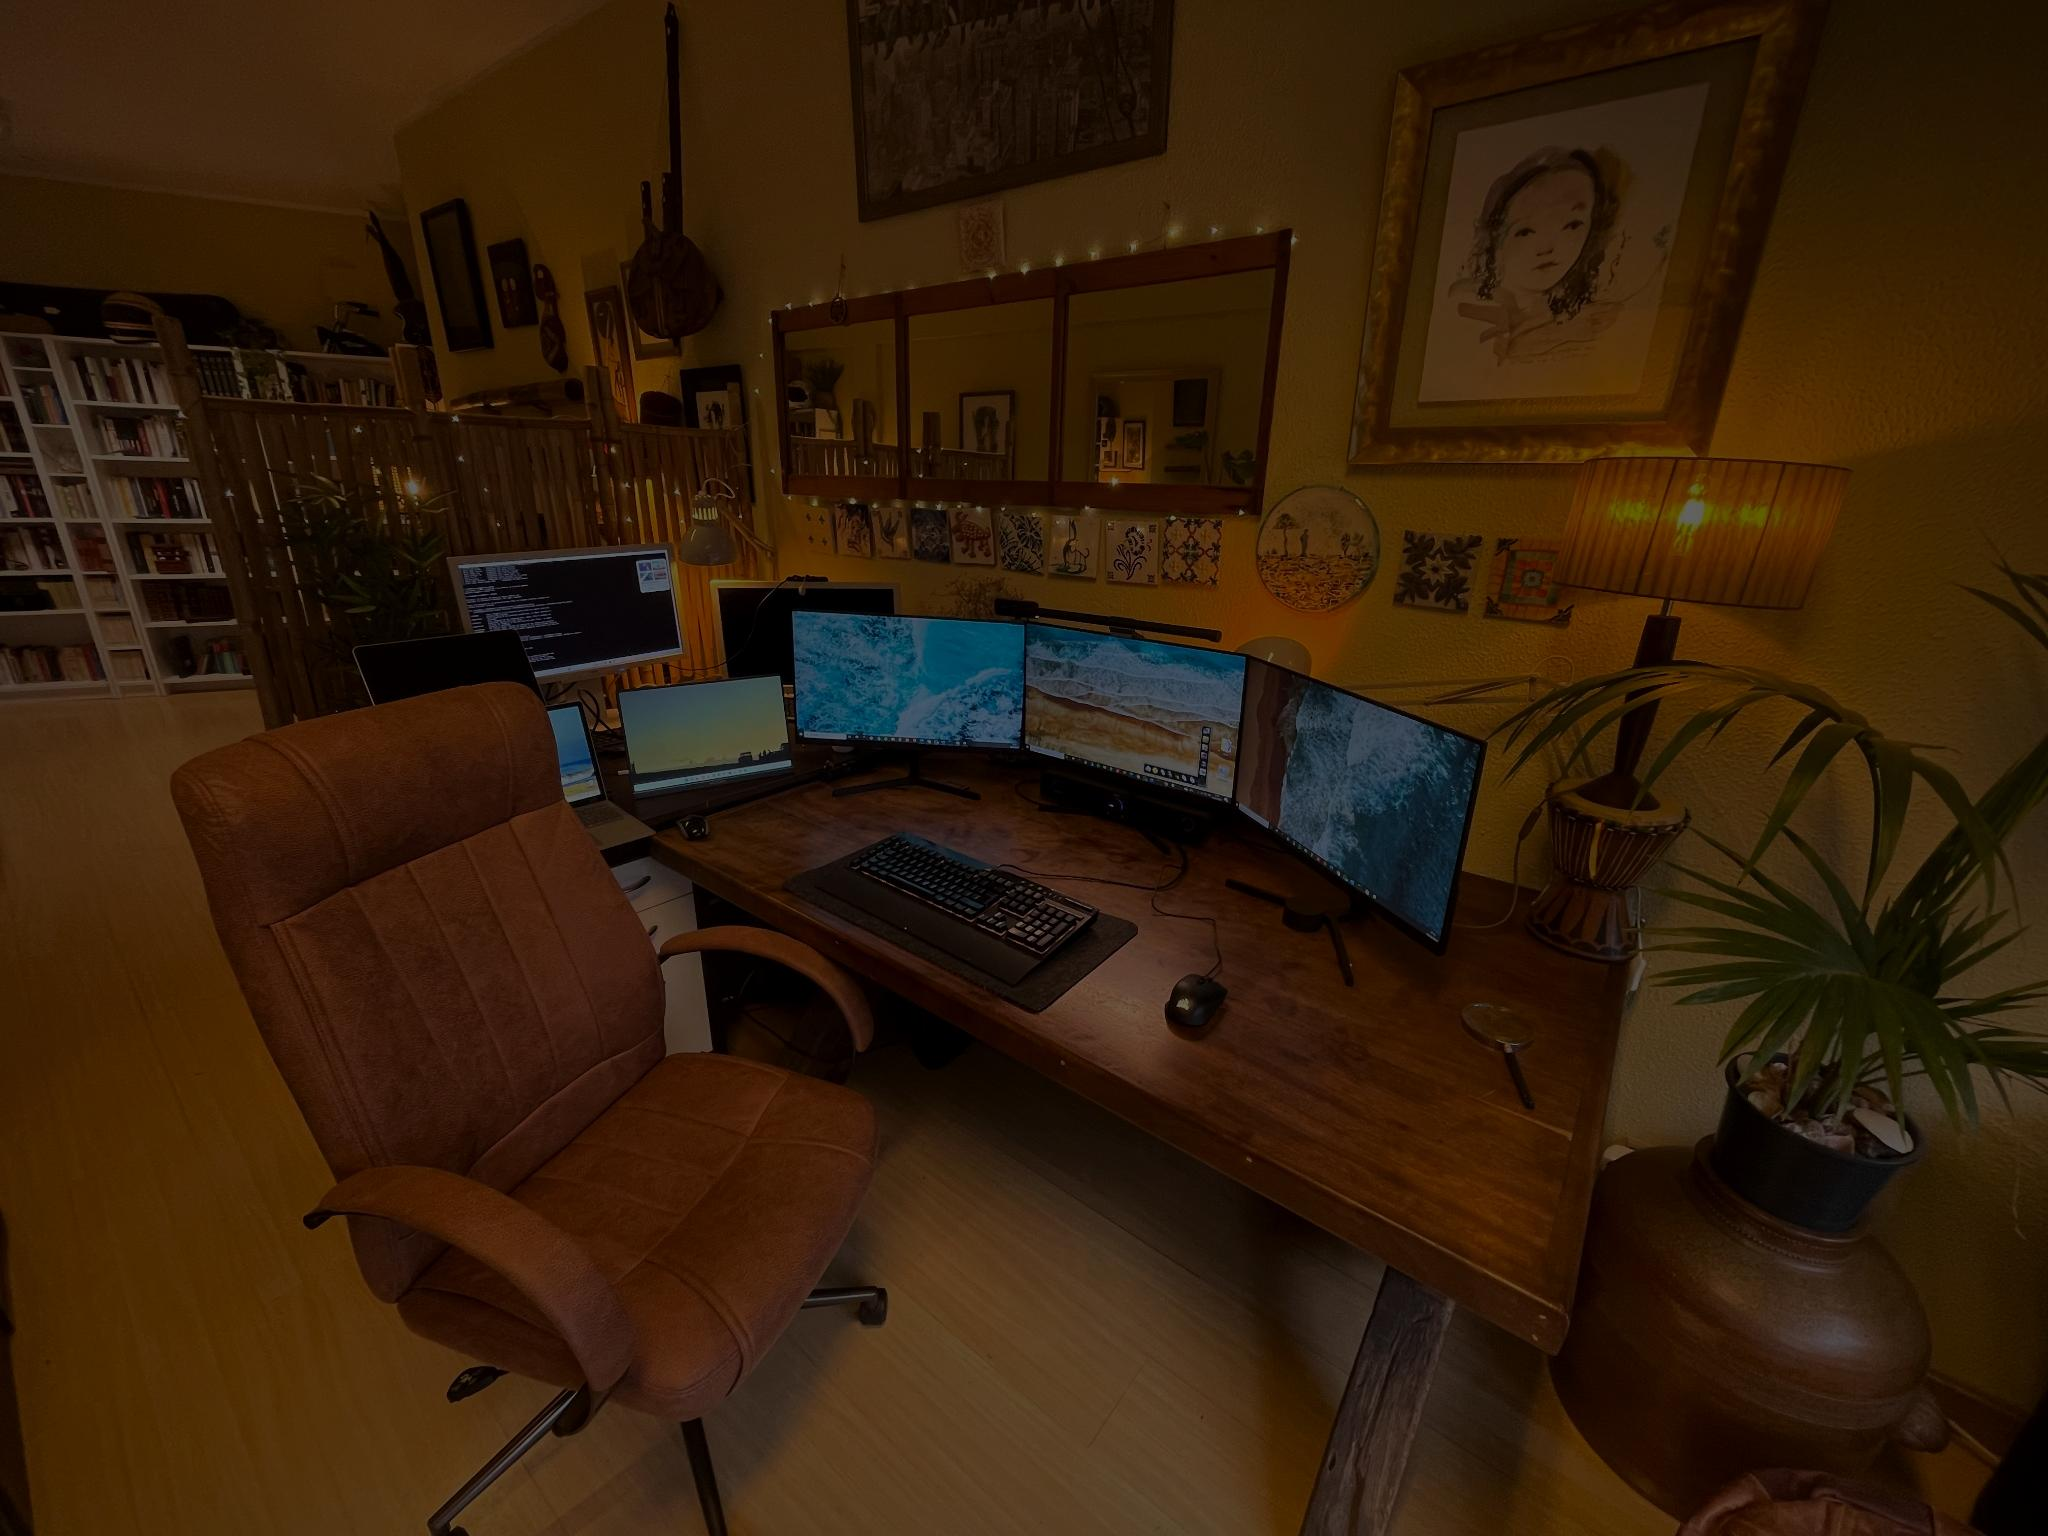
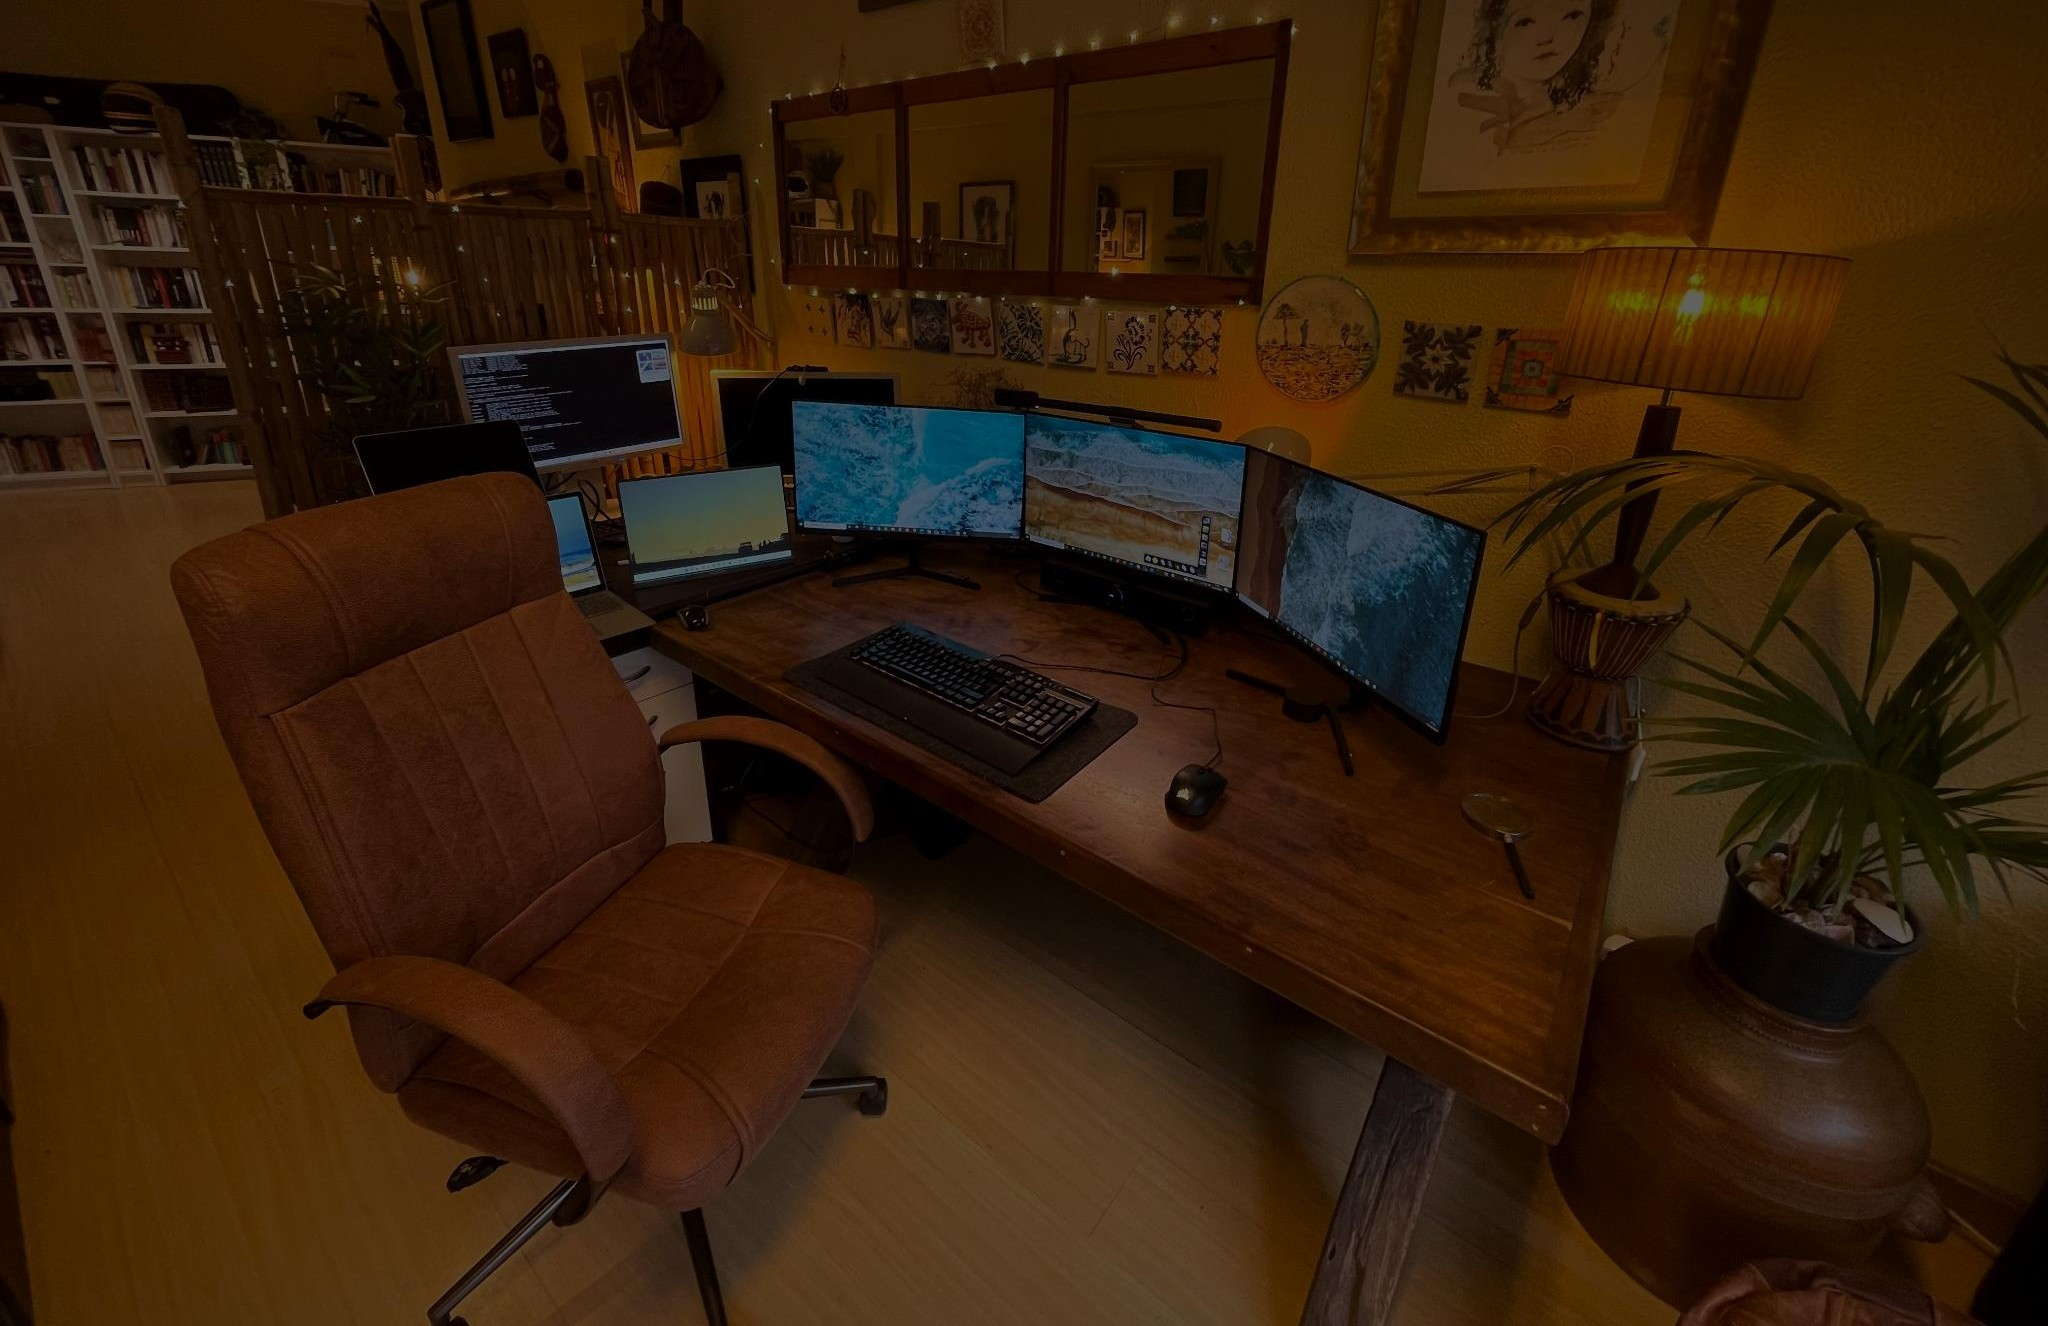
dfsfsdf

diff --git a/assets/css/main.css b/assets/css/main.css
@@ -738,17 +738,20 @@ section,
 # Hero Section
 --------------------------------------------------------------*/
 /* CSS original com nomes de classes atualizados */
+@import url('https://fonts.googleapis.com/css2?family=Playfair+Display:wght@700;900&family=Raleway:wght@400;600;700&display=swap');
+
 .hero {
   position: relative;
   width: 100%;
-  min-height: 100vh; /* Mostra mais da imagem */
+  min-height: 100vh;
   padding: 80px 0;
   display: flex;
   align-items: center;
   justify-content: center;
   text-align: center;
   overflow: hidden;
-  background: rgb(0, 0, 0); /* Para que o degradê se funda com o fundo */
+  background: #0a0a0a;
+  font-family: 'Raleway', sans-serif;
 }
 
 .hero img {
@@ -756,24 +759,26 @@ section,
   inset: 0;
   width: 100%;
   height: 100%;
-  object-fit: contain; /* Mostra toda a imagem */
+  object-fit: cover;
   z-index: 1;
-  background: #000;
+  background: #121212;
+  opacity: 0.7;
+  filter: brightness(0.7) contrast(1.1);
 }
+
 .hero::after {
   content: "";
   position: absolute;
   bottom: 0;
-  left: 0;
-  right: 0;
-  height: 150px; /* mais alto para um efeito mais forte */
-  background: linear-gradient(to bottom, rgba(255, 255, 255, 0) 0%, #000000 100%);
-  z-index: 2;
+  left: 0; 
+  height: 400px;
+  background: linear-gradient(to bottom, rgba(10, 10, 10, 0) 0%, #0a0a0a 500%);
+  z-index: 3;
 }
 
 .hero-section {
   width: 100%;
-  min-height: 100vh;
+  min-height: 50vh;
   position: relative;
   padding: 80px 0;
   display: flex;
@@ -781,98 +786,111 @@ section,
   justify-content: center;
   text-align: center;
   color: white;
-}
-
-.hero-background {
-  position: absolute;
-  inset: 0;
-  width: 100%;
-  height: 100%;
-  z-index: 1;
-}
-
-.hero-background img {
-  width: 100%;
-  height: 100%;
-  object-fit: cover;
-  display: block;
-}
-
-.hero-overlay {
-  content: "";
-  background: rgba(255, 255, 255, 0.5);
-  position: absolute;
-  inset: 0;
-  z-index: 2;  /* Ajuste para garantir que o texto no Hero Section seja visível */
-}
-
-.hero-content h2,
-.hero-content p {
-  color: #ffffff; /* Cor branca para contraste com fundo escuro */
-  z-index: 3; /* Garante que o texto fique acima de outros elementos */
-  position: relative;
-  text-shadow: 2px 2px 6px rgba(0, 0, 0, 1); /* Evita sobreposição */
+  font-family: 'Raleway', sans-serif;
 }
 
 .hero-content {
   position: relative;
-  z-index: 3;
+  z-index: 2;
   max-width: 900px;
   padding: 0 20px;
 }
 
-.hero-logo h1 {
-  font-size: 3.5rem;
+.hero-content h2 {
+  font-family: 'Playfair Display', serif;
+  font-size: 4.5rem;
   font-weight: 700;
-  text-transform: lowercase;
-  margin-bottom: 30px;
-  color: white;
+  letter-spacing: 1px;
+  color: #e8d8b8; /* Bege dourado suave */
+  margin-bottom: 25px;
+  line-height: 1.2;
+  text-shadow: 3px 3px 10px rgba(0, 0, 0, 0.5);
 }
 
-.hero-title {
-  margin: 0 0 20px 0;
-  font-size: 2.5rem;
-  font-weight: 600;
-  line-height: 1.3;
-}
-
-.hero-description {
-  color: rgba(255, 255, 255, 0.9);
-  margin: 0 auto 30px auto;
-  font-size: 1.3rem;
-  line-height: 1.6;
+.hero-content p {
+  font-family: 'Raleway', sans-serif;
+  font-size: 1.5rem;
+  font-weight: 400;
+  color: #d1c7b7; /* Bege claro */
+  line-height: 1.8;
+  margin-bottom: 40px;
   max-width: 700px;
+  margin-left: auto;
+  margin-right: auto;
 }
 
-#hero img {
-  display: block;
-  margin: 0 auto;
-  max-width: 100%;
-  height: auto;
+.hero-btn {
+  display: inline-block;
+  padding: 18px 35px;
+  background: transparent;
+  color: #e8d8b8;
+  border: 2px solid #e8d8b8;
+  text-decoration: none;
+  font-weight: 600;
+  border-radius: 0;
+  transition: all 0.4s ease;
+  font-size: 1.1rem;
+  letter-spacing: 2px;
+  text-transform: uppercase;
+  position: relative;
+  overflow: hidden;
+  z-index: 1;
 }
 
-/* Ajustes para mobile */
+.hero-btn:before {
+  content: '';
+  position: absolute;
+  top: 0;
+  left: -100%;
+  width: 100%;
+  height: 100%;
+  background: #e8d8b8;
+  transition: all 0.4s ease;
+  z-index: -1;
+}
+
+.hero-btn:hover {
+  color: #0a0a0a;
+  transform: translateY(-5px);
+}
+
+.hero-btn:hover:before {
+  left: 0;
+}
+
+/* Efeito de brilho sutil nos textos */
+.text-glow {
+  animation: glow 3s ease-in-out infinite alternate;
+}
+
+@keyframes glow {
+  from {
+    text-shadow: 0 0 5px rgba(232, 216, 184, 0.3);
+  }
+  to {
+    text-shadow: 0 0 15px rgba(232, 216, 184, 0.6);
+  }
+}
+
+/* Mobile */
 @media (max-width: 768px) {
-  .hero-section {
-    padding: 60px 0;
-    min-height: 90vh;
-  }
-  
-  .hero-logo h1 {
-    font-size: 2.5rem;
+  .hero-content h2 {
+    font-size: 2.8rem;
     margin-bottom: 20px;
+  line-height: 1.3;
+  padding: 0 15px;
   }
   
-  .hero-title {
-    font-size: 1.8rem;
-    line-height: 1.2;
-    margin-bottom: 15px;
+  .hero-content p {
+    font-size: 1.2rem;
+    padding: 0 15px;
+    line-height: 1.6;
   }
   
-  .hero-description {
-    font-size: 1.1rem;
-    line-height: 1.5;
-    margin-bottom: 25px;
+  .hero-btn {
+    padding: 15px 25px;
+    font-size: 1rem;
+  margin-bottom: 20px;
   }
 }
 

diff --git a/index.html b/index.html
@@ -16,8 +16,9 @@
   <!-- Fonts -->
   <link href="https://fonts.googleapis.com" rel="preconnect">
   <link href="https://fonts.gstatic.com" rel="preconnect" crossorigin>
+  <link href="https://fonts.googleapis.com/css2?family=Montserrat:wght@400;600;700;800&display=swap" rel="stylesheet">
   <link href="https://fonts.googleapis.com/css2?family=Roboto:wght@100;300;400;500;700;900&family=Poppins:wght@100;200;300;400;500;600;700;800;900&display=swap" rel="stylesheet">
-
+  <link href="https://fonts.googleapis.com/css2?family=Poppins:wght@400;600;800&display=swap" rel="stylesheet">
   <!-- Vendor CSS Files -->
   <link href="assets/vendor/bootstrap/css/bootstrap.min.css" rel="stylesheet">
   <link href="assets/vendor/bootstrap-icons/bootstrap-icons.css" rel="stylesheet">
@@ -127,7 +128,7 @@
     <section id="hero" class="hero d-flex align-items-center">
       <img src="imagens/escritorio1.jpg" alt="Imagem ilustrativa da Infosoluções" data-aos="fade-in">
       <div class="hero-content">
-        <h2>Infosoluções: Sua Parceira em Soluções Informáticas Confiáveis</h2>
+        <h2> Sua Parceira em Soluções Informáticas Confiáveis</h2>
         <p>Desde 2010, oferecemos serviços especializados para empresas e particulares.</p>
       </div>
     </section><!-- /Hero Section -->
